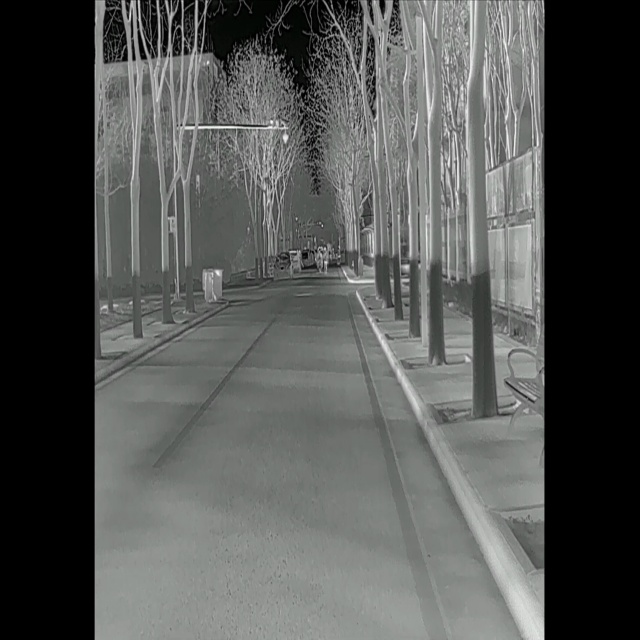
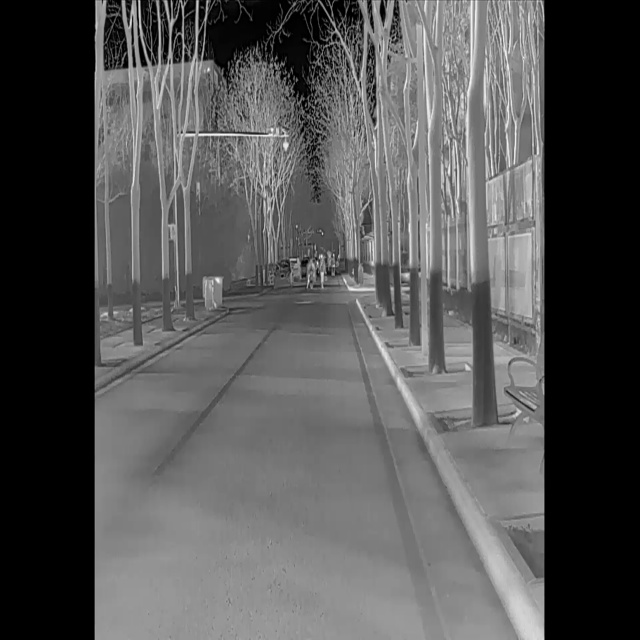
rga resize dont use padding. Bbox shifted.

diff --git a/detect.cpp b/detect.cpp
@@ -210,7 +210,7 @@ int detect_process(const char *model_path, int cpuid, rknn_core_mask core_mask){
 		resize_width = NET_INPUTWIDTH;
 		resize_height = (int)((float)IMG_HEIGHT * resize_scale);
 		w_pad = 0;
-		h_pad = (NET_INPUTHEIGHT - resize_height)/ 2;
+		h_pad = (NET_INPUTHEIGHT - resize_height) / 2;
 	}
 	else{
 		//pad width dim
@@ -267,7 +267,7 @@ int detect_process(const char *model_path, int cpuid, rknn_core_mask core_mask){
 		// 补边左上角对齐 因此 w_pad = h_pad = 0
 		// double start_time = what_time_is_it_now();
 		post_process_fp((float *)detect_fp._output_buff[0], (float *)detect_fp._output_buff[1], (float *)detect_fp._output_buff[2],
-		 				NET_INPUTHEIGHT, NET_INPUTWIDTH, 0, 0, resize_scale, BOX_THRESH, NMS_THRESH, &detect_result_group);
+		 				NET_INPUTHEIGHT, NET_INPUTWIDTH, h_pad, w_pad, resize_scale, BOX_THRESH, NMS_THRESH, &detect_result_group);
 		detect_result_group.id = input.index;
 		// double end_time = what_time_is_it_now();
 		// cost_time = end_time - start_time;

diff --git a/yolov5_c.cpp b/yolov5_c.cpp
@@ -19,7 +19,6 @@ bool bDetecting = true; // 目标检测进程状态
 video_property video_probs; // 视频属性类
 double start_time; // Video Detection开始时间
 double end_time;   // Video Detection结束时间
-int NPU_ID[3] = {1, 2, 4};
 
 // 多线程控制相关
 mutex mtxQueueInput;        		  // mutex of input queue client

diff --git a/videoio.cpp b/videoio.cpp
@@ -29,7 +29,7 @@ void preprocess::resize(cv::Mat &img, cv::Mat &_img)
     }
 	_img = cv::Mat(cv::Size(input_width, input_height), CV_8UC3, resize_buf);
 
-	// cv::imwrite("resize_input.jpg", _img);
+	cv::imwrite("resize_input.jpg", _img);
 }
 
 /*---------------------------------------------------------
